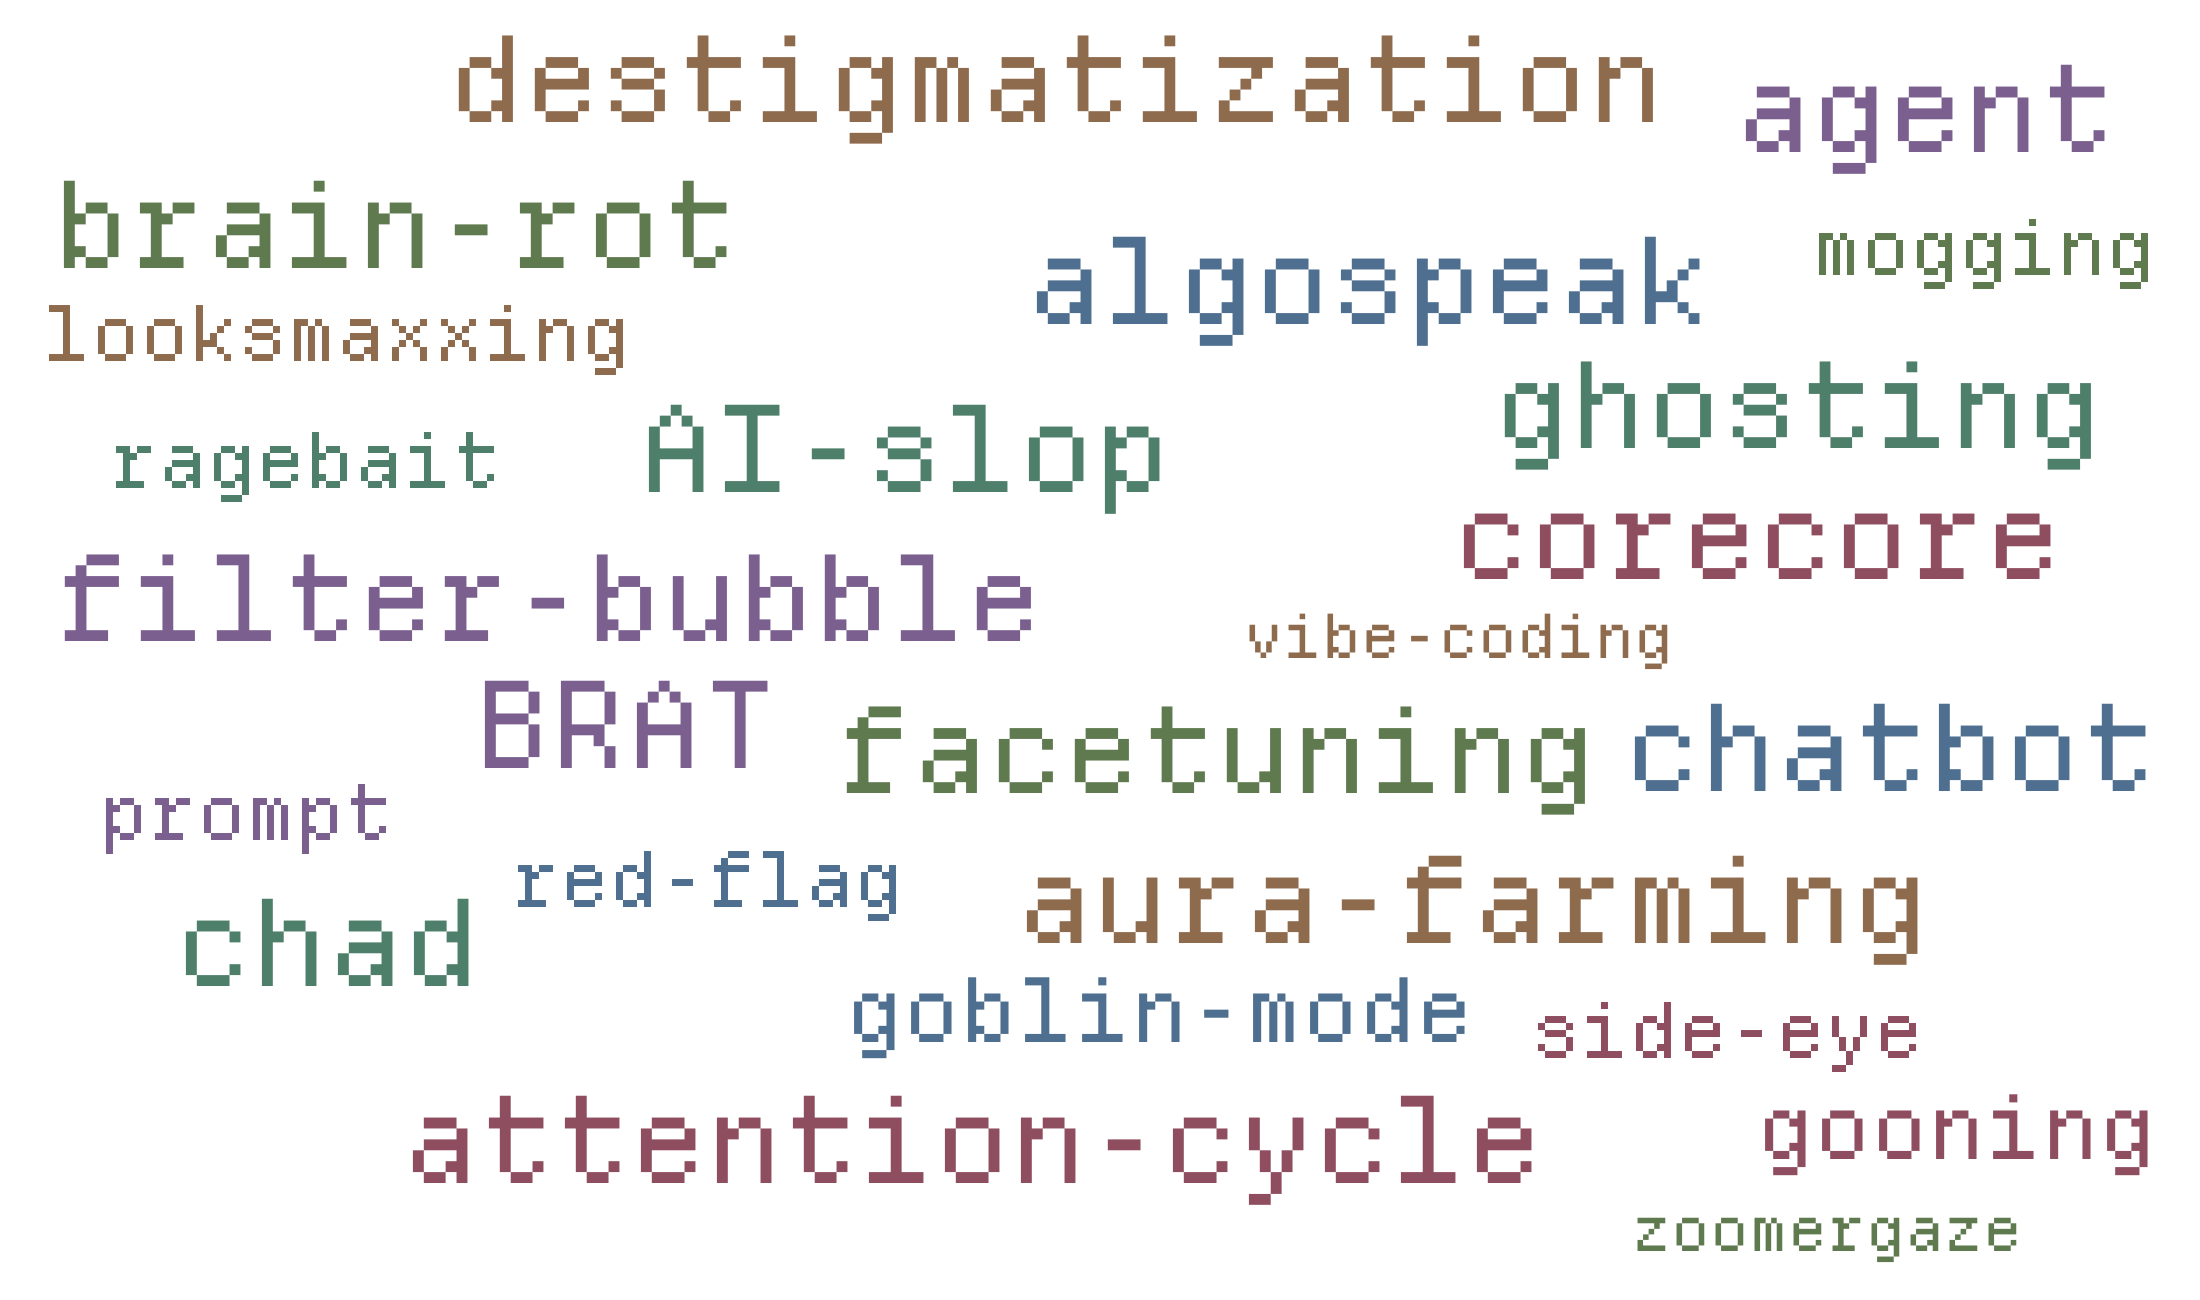
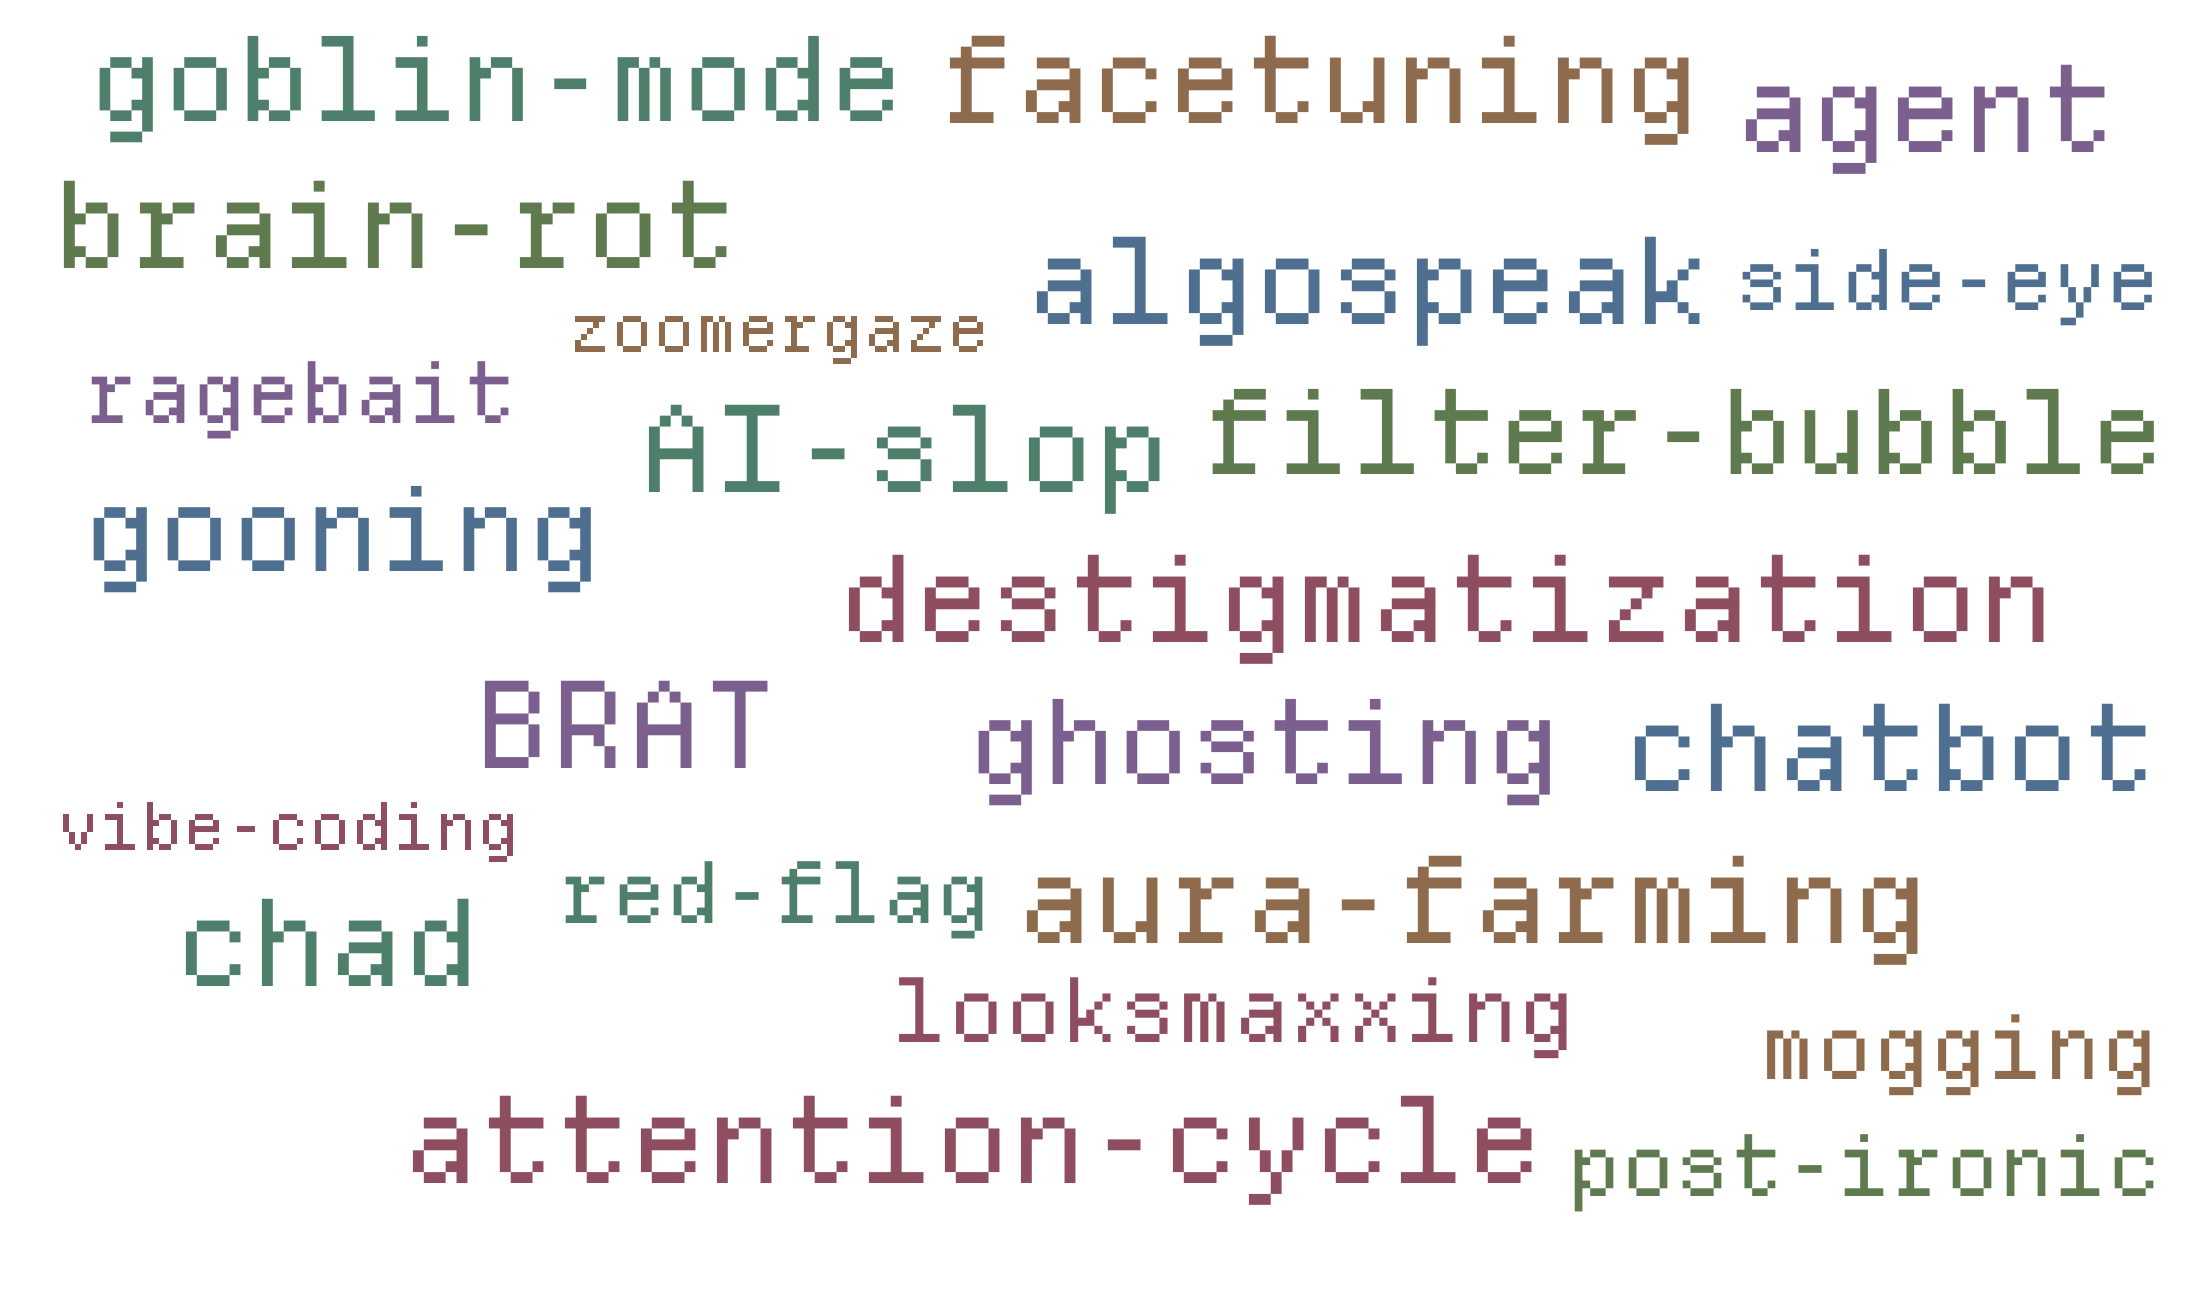
content: rename the snapshot page to Dystopian Zeitgeist
Claude-Session: https://claude.ai/code/session_016fpCoGEH1HWYA4mcF1b7FS

diff --git a/content/dystopian-zeitgeist.md b/content/dystopian-zeitgeist.md
@@ -1,6 +1,5 @@
 ---
-title: Digital Culture - Snapshot
-date: 14 September 2026
+title: "Dystopian Zeitgeist"
 ---
 
 ![[img/wordcloud.png|700]]
@@ -14,7 +13,6 @@ date: 14 September 2026
 - BRAT
 - chad
 - chatbot
-- corecore
 - destigmatization
 - facetuning
 - filter-bubble
@@ -23,7 +21,7 @@ date: 14 September 2026
 - gooning
 - looksmaxxing
 - mogging
-- prompt
+- post-ironic
 - ragebait
 - red-flag
 - side-eye
